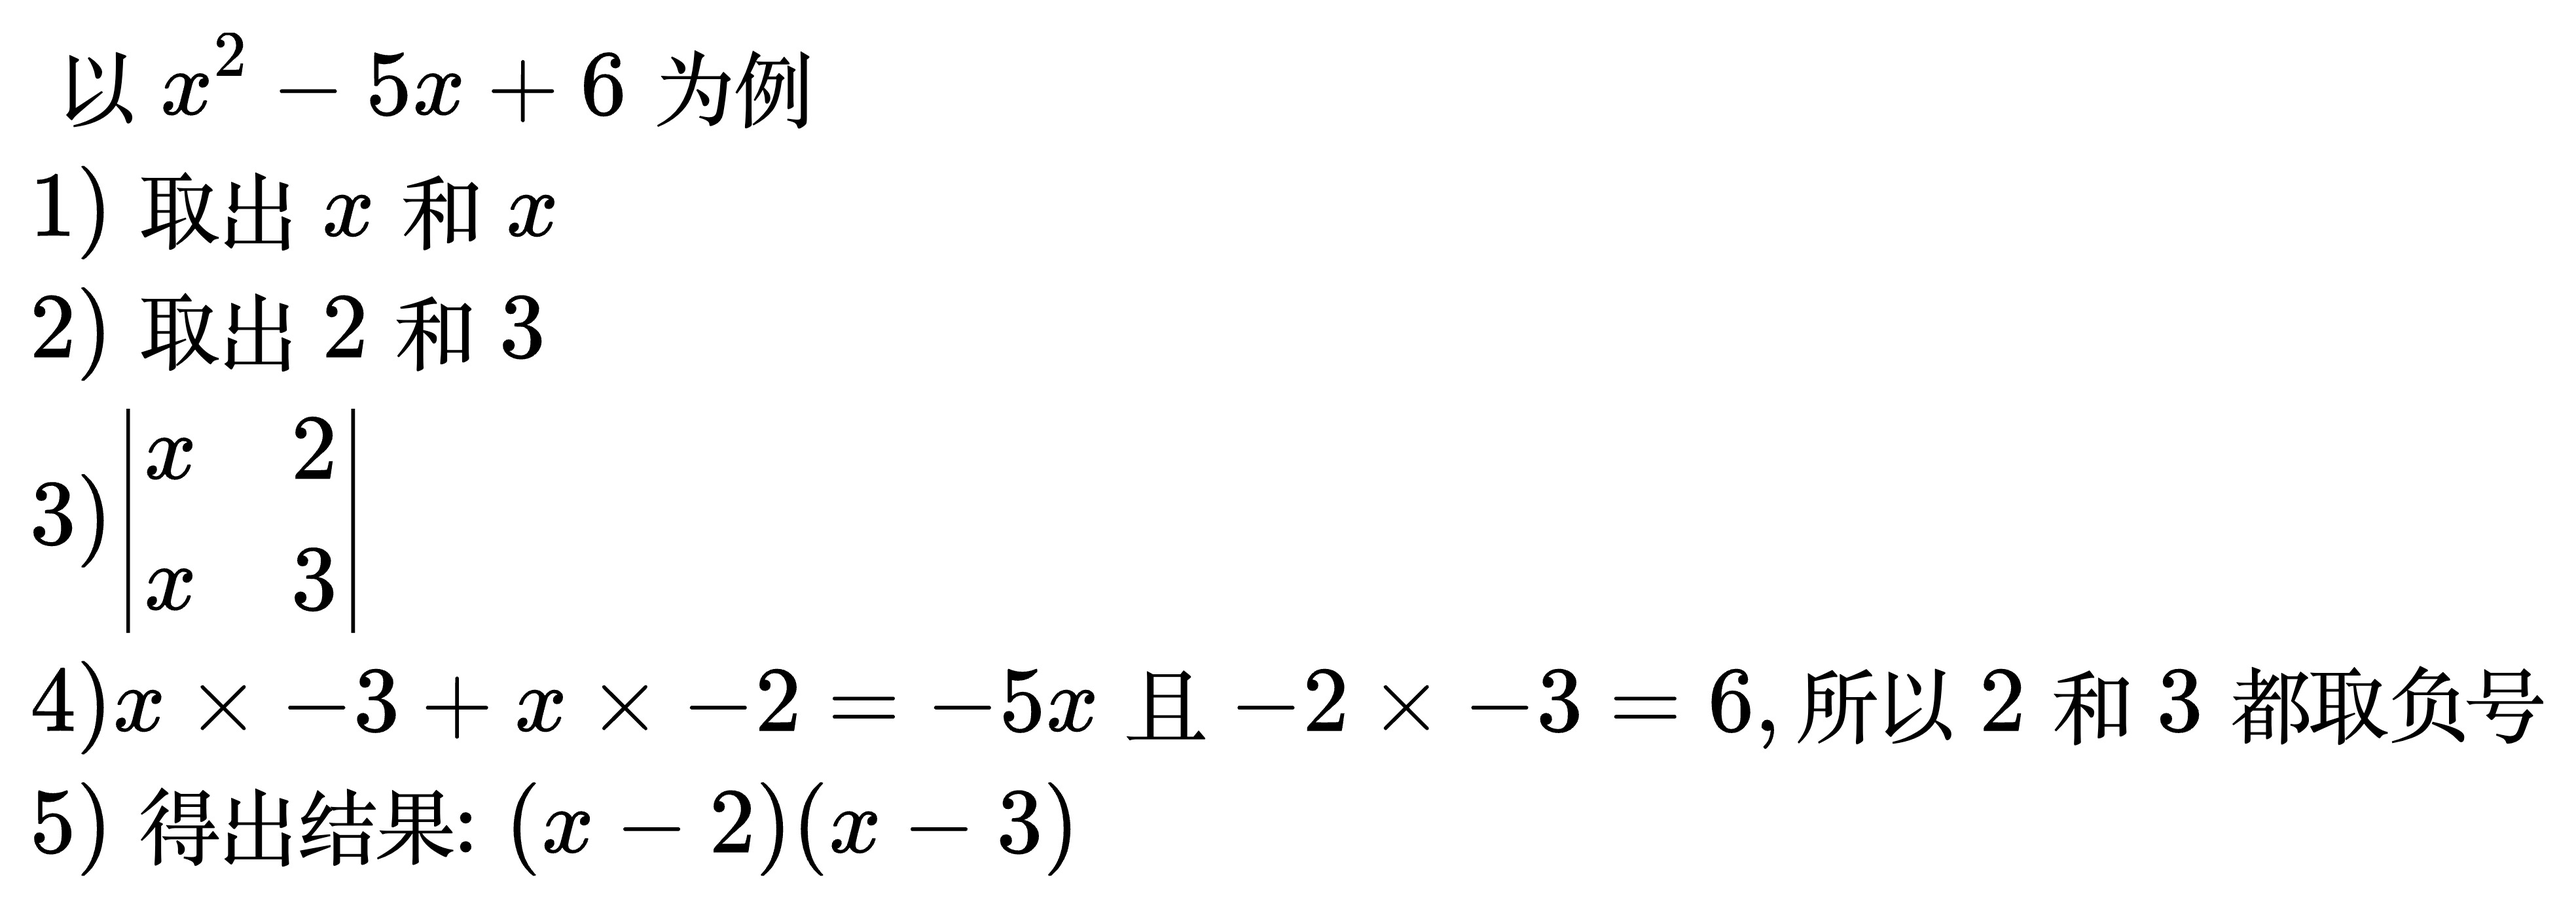
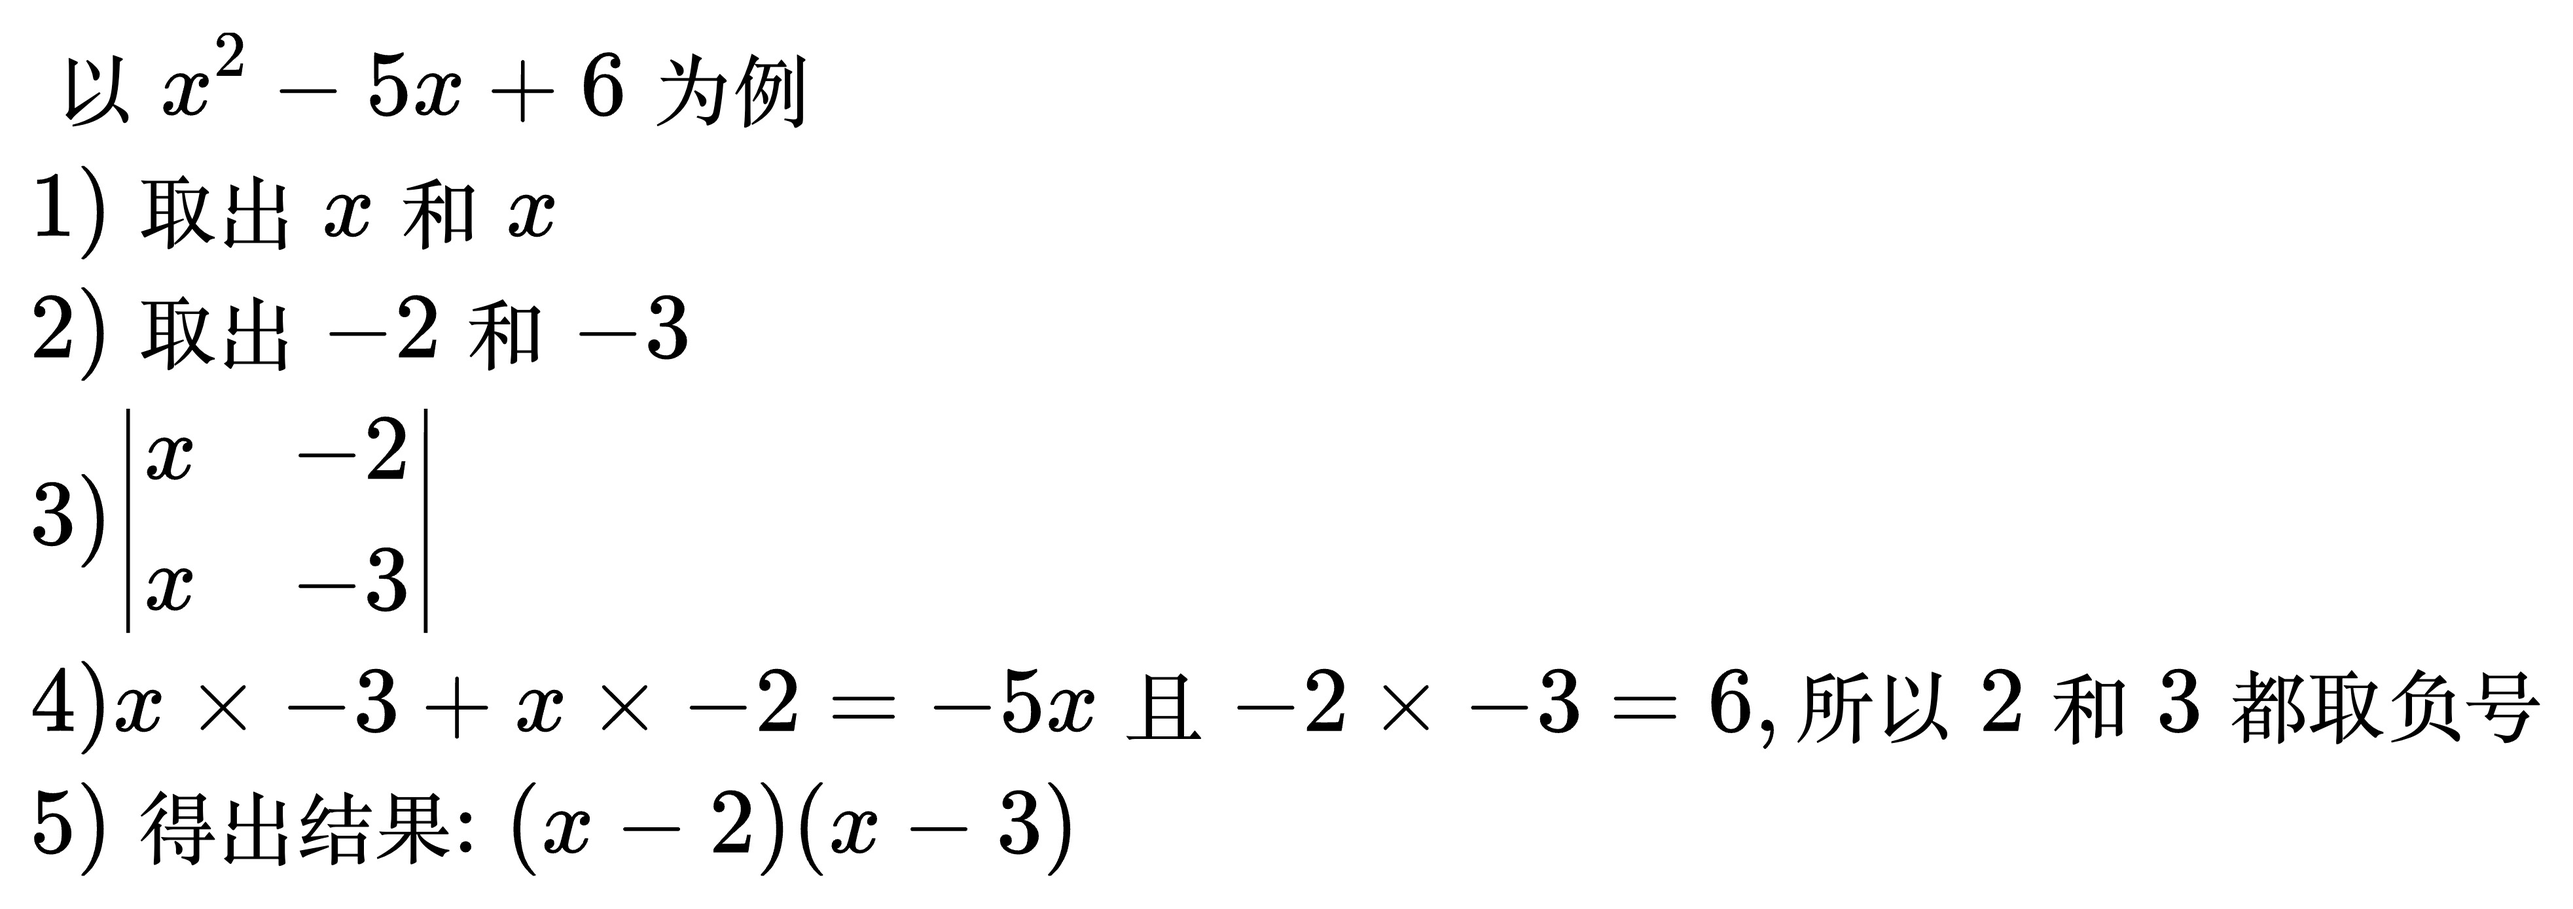
1

diff --git a/base/math/src/base/cross_multiplication.md b/base/math/src/base/cross_multiplication.md
@@ -51,10 +51,10 @@
 \begin{align}
 & 以 x^{2} - 5x + 6 为例 \\
 & 1) 取出 x 和 x \\
-& 2) 取出 2 和 3 \\
+& 2) 取出 -2 和 -3 \\
 & 3) \begin{vmatrix}
-  x & 2 \\
-  x & 3
+  x & -2 \\
+  x & -3
 \end{vmatrix} \\
 & 4) x \times -3 + x \times -2 = -5x 且 -2 \times -3 = 6, 所以 2 和 3 都取负号 \\
 & 5) 得出结果: (x - 2)(x - 3) \\
@@ -67,16 +67,16 @@
 \begin{align}
 & 以 x^{2} - 5x - 6 为例 \\
 & 1) 取出 x 和 x \\
-& 2) 取出 2 和 3 \\
+& 2) 取出 -2 和 -3 \\
 & 3) \begin{vmatrix}
-  x & 2 \\
-  x & 3
+  x & -2 \\
+  x & -3
 \end{vmatrix} \\
-& 4) 2 和 3无法同时满足相加为 -5, 相乘为 -6, 所以尝试别的值 \\
-& 5) 尝试 1 和 6 \\
+& 4) -2 和 -3无法同时满足相加为 -5, 相乘为 -6, 所以尝试别的值 \\
+& 5) 尝试 1 和 -6 \\
 & 6) \begin{vmatrix}
   x & 1 \\
-  x & 6
+  x & -6
 \end{vmatrix} \\
 & 7) x \times 1 + x \times -6 = -5x 且 1 \times -6 = -6, 所以 1 取正号, 6 取负号 \\
 & 8) 得出结果: (x + 1)(x - 6) \\
@@ -89,15 +89,15 @@
 \begin{align}
 & 以 x^{2} + 5x - 6 为例 \\
 & 1) 取出 x 和 x \\
-& 2) 取出 2 和 3 \\
+& 2) 取出 -2 和 3 \\
 & 3) \begin{vmatrix}
-  x & 2 \\
+  x & -2 \\
   x & 3
 \end{vmatrix} \\
-& 4) 2 和 3无法同时满足相加为 5, 相乘为 -6, 所以尝试别的值 \\
-& 5) 尝试 1 和 6 \\
+& 4) -2 和 3无法同时满足相加为 5, 相乘为 -6, 所以尝试别的值 \\
+& 5) 尝试 -1 和 6 \\
 & 6) \begin{vmatrix}
-  x & 1 \\
+  x & -1 \\
   x & 6
 \end{vmatrix} \\
 & 7) x \times -1 + x \times 6 = 5x 且 -1 \times 6 = -6, 所以 1 取负号, 6 取正号 \\

diff --git a/base/math/src/further_mathematics/limit_existence_criterion.md b/base/math/src/further_mathematics/limit_existence_criterion.md
@@ -142,3 +142,33 @@ x^{2}, & x \ge 1
 ![](../img/lec8.jpg)
 
 ### 单调有界定理
+
+单调有界的数列必有极限。
+
+例题 1
+
+<!--
+\begin{align}
+& 设 a_{1} = \sqrt{2}, a_{2} = \sqrt{2 + \sqrt{2}}, a_{3} = \sqrt{2 + \sqrt{2 + \sqrt{2}}}, ... \\
+& 证明: 数列有极限, 并求其极限 \\
+\\
+& 数列的递推关系为: a_{n + 1} = \sqrt{2 + a_{n}} \\
+& 显然, a_{n + 1} \gt a_{n}, 数列单调递增 \\
+& 接下来只需要证明数列有上界, \; 证明: a_{n} \le 2 \\
+& 设 a_{k} \le 2, 则 a_{k + 1} = \sqrt{2 + a_{k}} \le \sqrt{2 + 2} = 2 \\
+& 所以, 对任意的n, 都有 a_{n} \le 2 \\
+& 根据单调有界定理, 数列有极限 \\
+& 求极限: \\
+& 设 \lim_{x \to \infty} a_{n} = A \; (A \ge \sqrt{2}) \\
+& 因为 a_{n + 1} = \sqrt{2 + a_{n}} \\
+& 两边同时取极限 \lim_{x \to \infty} a_{n + 1} = \lim_{x \to \infty} \sqrt{2 + a_{n}} \\
+& A = \sqrt{2 + A} \\
+& A^{2} - A - 2 = 0 \\
+& (A - 2)(A + 1) = 0 \\
+& A = -2 或 A = 1, 由于A \ge \sqrt{2}, 所以 A = 2 \\
+\end{align}
+-->
+
+![](../img/lec9.jpg)
+
+例题 2
